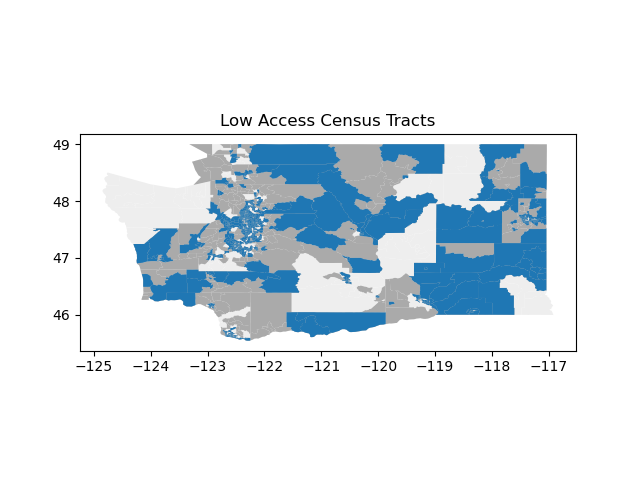
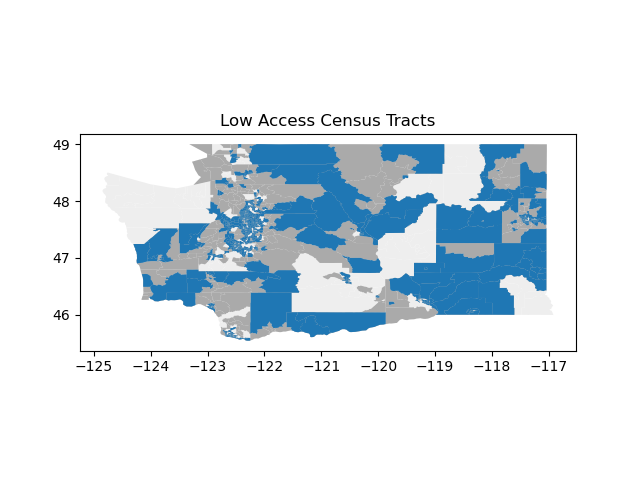
update hw5

Changed region(s): [[0.375, 0.5938, 0.4688, 0.6875], [0.5938, 0.5625, 0.6562, 0.625], [0.2812, 0.4375, 0.3125, 0.5312]]

diff --git a/Mapping/hw5.py b/Mapping/hw5.py
@@ -117,9 +117,9 @@ def plot_low_access_tracts(state_data):
     urban = state_data['Urban'] == 1
     rural_pl = state_data[rural]
     urban_pl = state_data[urban]
-    tot_rr = len(rural_pl)
-    tot_ub = len(urban_pl)
-    wa_data = state_data[(state_data['CensusTract'] != 'NaN') & (state_data['State'] == 'WA')]
+    tot_rr = rural_pl['POP2010']
+    tot_ub = urban_pl['POP2010']
+    wa_data = state_data.dropna()
     r_low_1 = rural_pl['lapop10'] >= 500
     r_low_2 = (rural_pl['lapop10'] / tot_rr) >= 0.33
     u_low_1 = urban_pl['lapophalf'] >= 500
@@ -127,8 +127,8 @@ def plot_low_access_tracts(state_data):
     fig, ax = plt.subplots(1)
     state_data.plot(ax=ax, color='#EEEEEE')
     wa_data.plot(ax=ax, color='#AAAAAA')
-    rural_pl[r_low_1 & r_low_2].plot(ax=ax)
-    urban_pl[u_low_1 & u_low_2].plot(ax=ax)
+    rural_pl[r_low_1 | r_low_2].plot(ax=ax)
+    urban_pl[u_low_1 | u_low_2].plot(ax=ax)
     plt.title('Low Access Census Tracts')
     plt.savefig('low_access.png')
 
@@ -139,11 +139,11 @@ def main():
         'food_access/food_access.csv'
     )
     print(percentage_food_data(state_data))
-    # plot_map(state_data)
-    # plot_population_map(state_data)
-    # plot_population_county_map(state_data)
-    # plot_food_access_by_county(state_data)
-    # plot_low_access_tracts(state_data)
+    plot_map(state_data)
+    plot_population_map(state_data)
+    plot_population_county_map(state_data)
+    plot_food_access_by_county(state_data)
+    plot_low_access_tracts(state_data)
 
 
 if __name__ == '__main__':
